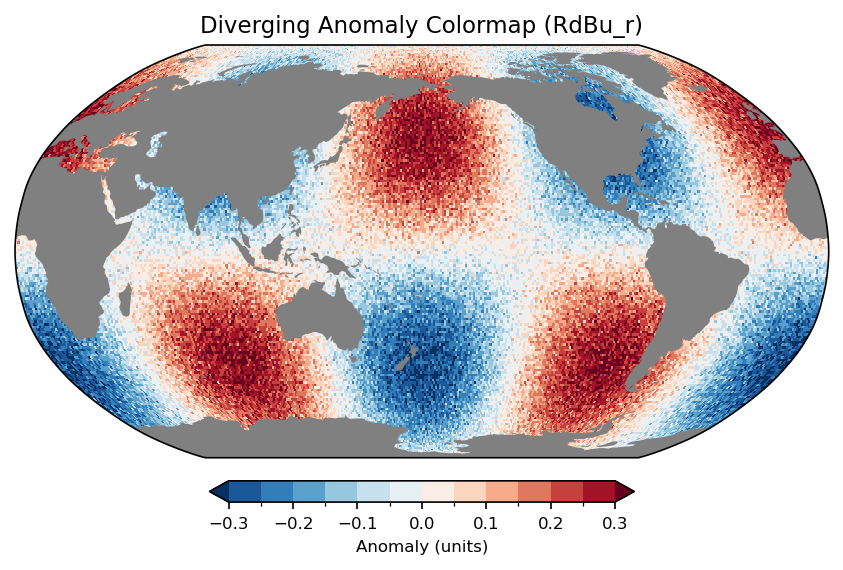
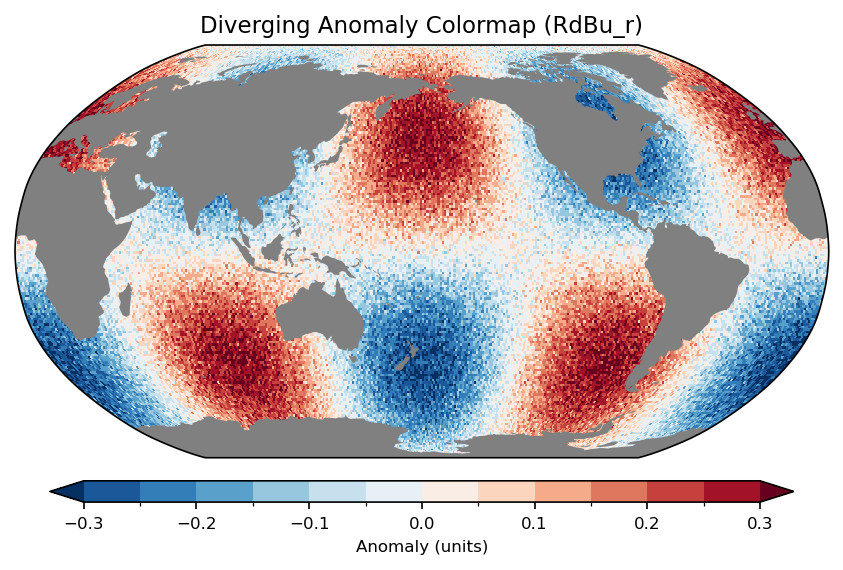
Increase colorbar aspect ratio for more legible tick labels
Set aspect=35 (up from default 20) in add_colorbar() and
bottom_colorbar() so horizontal colorbars are longer, giving tick
labels more room to breathe.

Changed region(s): [[0.5243, 0.8351, 0.9561, 0.9246], [0.0617, 0.8351, 0.4626, 0.9246]]

diff --git a/src/climplot/panels.py b/src/climplot/panels.py
@@ -208,9 +208,9 @@ def add_colorbar(
     max_ticks = kwargs.pop("max_ticks", 7)
 
     if orientation == "horizontal":
-        cbar_kwargs = {"orientation": "horizontal", "pad": 0.05, "fraction": 0.046}
+        cbar_kwargs = {"orientation": "horizontal", "pad": 0.05, "fraction": 0.046, "aspect": 35}
     else:
-        cbar_kwargs = {"orientation": "vertical", "pad": 0.05, "fraction": 0.046}
+        cbar_kwargs = {"orientation": "vertical", "pad": 0.05, "fraction": 0.046, "aspect": 35}
 
     cbar_kwargs.update(kwargs)
     cbar = plt.colorbar(mappable, ax=ax, extend=extend, **cbar_kwargs)
@@ -275,6 +275,7 @@ def bottom_colorbar(
         orientation="horizontal",
         pad=0.05,
         fraction=0.03,
+        aspect=35,
         extend=extend,
         **kwargs,
     )
